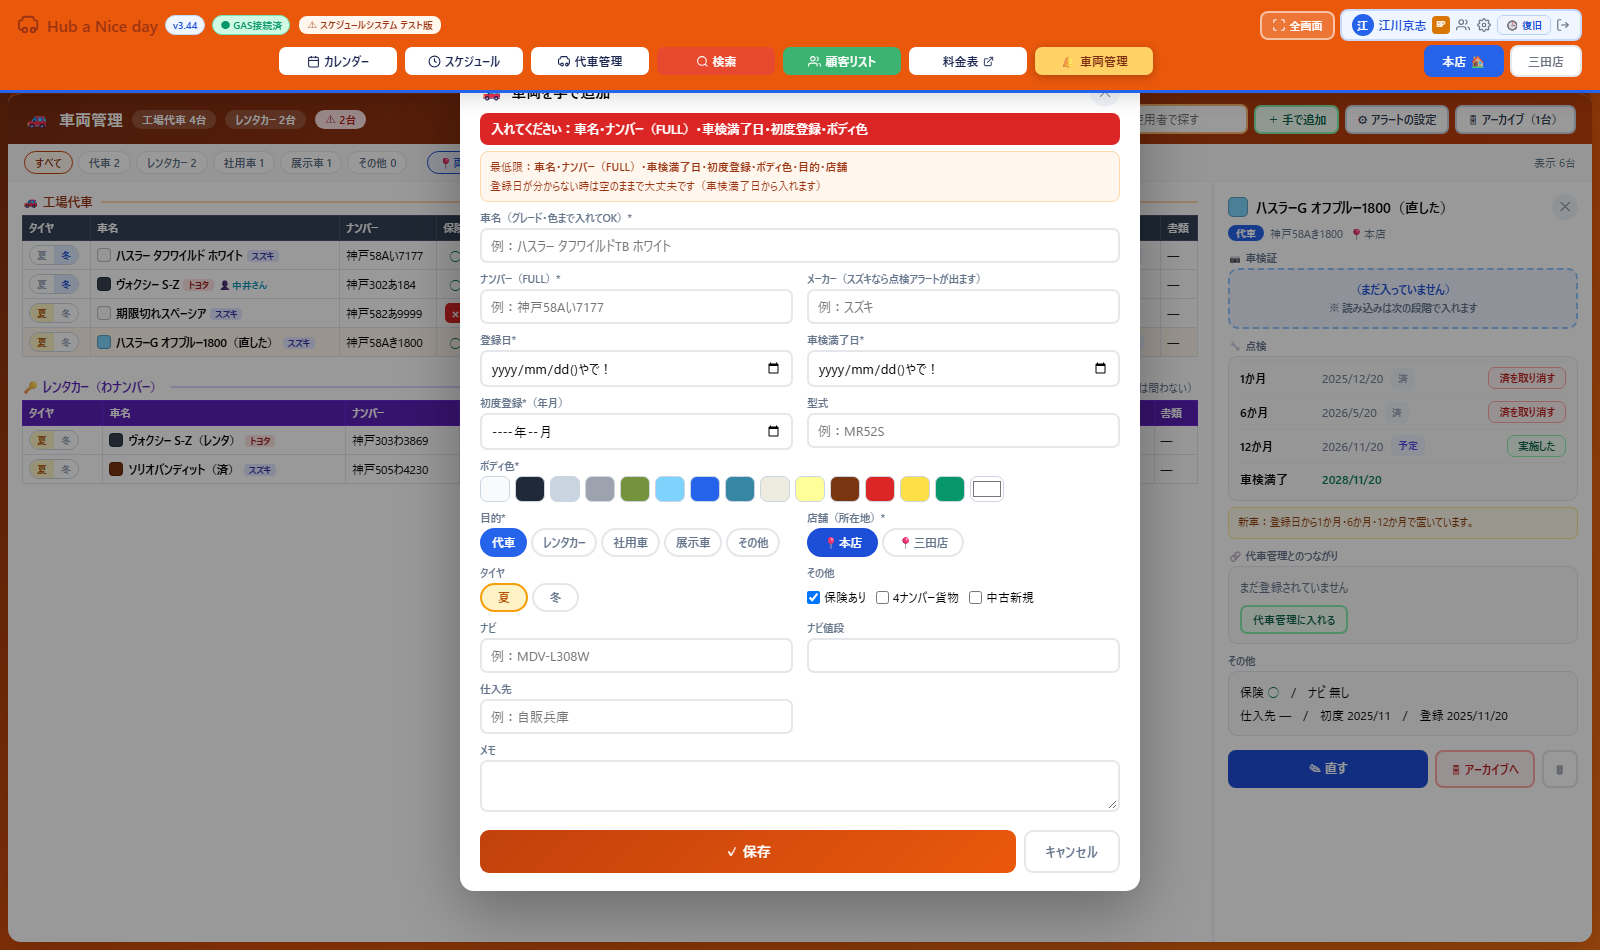
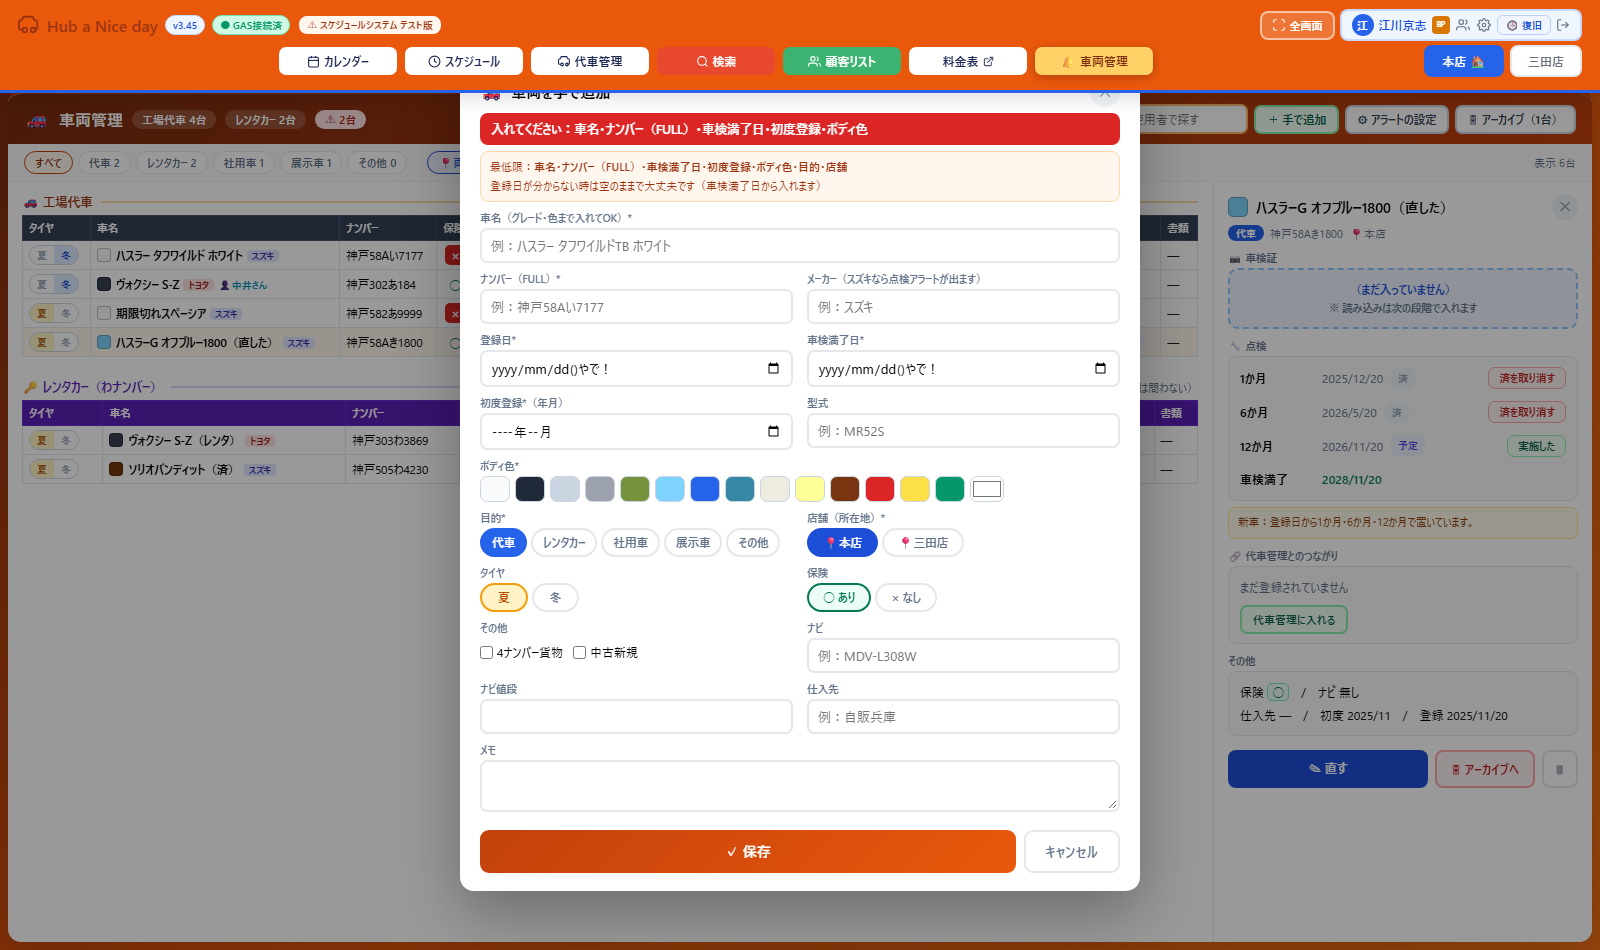
v3.46 ムーヴは3秒で止める／保険の○×を編集できるように／工場代車の12か月点検を済に
- 点検バッジの動きは最初の3秒だけ（0.75秒×4回）。ずっと動くとストレスに
  なるため無限ループをやめた。速さは黄・オレンジ・赤で同じに揃えた。
- 保険の○×を編集できるようにした。編集画面に「○ あり／× なし」のボタン、
  一覧の保険欄と詳細パネルは押すだけで切り替わる。
- テスト版のデータ：工場代車120台の12か月点検をすべて「済」にした
  （控え：Hub重要書類/vehicles-v2-before-m12done.json）。取り込み
  スクリプトも同じ扱いに合わせた。
- 検査 vehicle_v2_test.js（43件）。

diff --git a/index_dev.html b/index_dev.html
@@ -22,7 +22,7 @@
     // 開きっぱなしのタブが旧コードのまま動き続けるのを防ぐ。画面復帰時と定期に自分自身を
     // no-store+クエリ付きで取得し、__APP_BUILD が変わっていれば「更新」バナーを表示する。
     // 本番デプロイ時は port_to_main.js が __APP_BUILD を自動更新する（手動更新不要）。
-    window.__APP_BUILD='build-1791181455252';
+    window.__APP_BUILD='build-1791183932873';
     (function(){
       var RUNNING=window.__APP_BUILD, shown=false, checking=false;
       function runningVer(){
@@ -123,7 +123,7 @@
 const { useState, useEffect, useLayoutEffect, useRef, useCallback, memo, useMemo } = React;
 
 // ★ バージョン管理：アップデートのたびにここだけ変更する
-const APP_VERSION = '3.45';
+const APP_VERSION = '3.46';
 // 本人認証を必須にするか。false の間は従来どおり名前を選ぶだけで入れる（移行期間）。
 //   false … 全員が今までどおり使える。端末の登録（＋スタッフを追加）は先にできる。
 //   true  … その端末で本人確認を済ませた人しかログイン画面に出ない。
@@ -8039,9 +8039,19 @@ const VehicleEdit=memo(({v,onSave,onClose})=>{
               ))}
             </div>
           </div>
+          <div><div style={LB}>保険</div>
+            <div style={{display:'flex',gap:4}}>
+              {[[true,'○ あり'],[false,'× なし']].map(([val,lb])=>(
+                <button key={String(val)} onClick={()=>set('insurance',val)}
+                  style={{padding:'5px 14px',borderRadius:20,fontSize:11.5,fontWeight:800,cursor:'pointer',
+                    border:'2px solid '+(f.insurance===val?(val?'#047857':'#dc2626'):'#e5e7eb'),
+                    background:f.insurance===val?(val?'#ecfdf5':'#dc2626'):'white',
+                    color:f.insurance===val?(val?'#047857':'white'):'#64748b'}}>{lb}</button>
+              ))}
+            </div>
+          </div>
           <div><div style={LB}>その他</div>
             <div style={{display:'flex',gap:10,alignItems:'center',fontSize:12,paddingTop:6}}>
-              <label style={{display:'flex',alignItems:'center',gap:4,cursor:'pointer'}}><input type="checkbox" checked={f.insurance} onChange={e=>set('insurance',e.target.checked)}/>保険あり</label>
               <label style={{display:'flex',alignItems:'center',gap:4,cursor:'pointer'}}><input type="checkbox" checked={f.cargo4} onChange={e=>set('cargo4',e.target.checked)}/>4ナンバー貨物</label>
               <label style={{display:'flex',alignItems:'center',gap:4,cursor:'pointer'}}><input type="checkbox" checked={f.usedNew} onChange={e=>set('usedNew',e.target.checked)}/>中古新規</label>
             </div>
@@ -8147,7 +8157,9 @@ const VehicleDetail=memo(({v,cfg,onChange,onClose,onDelete,linked,onLink,onUnlin
 
       <div style={LB}>その他</div>
       <div style={BOX}>
-        保険 {v.insurance?<span style={{color:'#047857',fontWeight:800}}>○</span>:<span style={{display:'inline-flex',alignItems:'center',justifyContent:'center',width:20,height:18,background:'#dc2626',color:'white',fontWeight:900,borderRadius:5}}>×</span>}
+        保険 <span onClick={()=>onChange({insurance:!v.insurance})} title="押すと ○⇄× が入れ替わります"
+          style={{cursor:'pointer',display:'inline-flex',alignItems:'center',justifyContent:'center',minWidth:20,height:18,padding:'0 4px',borderRadius:5,fontWeight:900,
+            background:v.insurance?'#ecfdf5':'#dc2626',color:v.insurance?'#047857':'white',border:'1.5px solid '+(v.insurance?'#6ee7b7':'#dc2626')}}>{v.insurance?'○':'×'}</span>
         　/　ナビ {v.nav||'無し'}{v.navYen?'（'+v.navYen+'）':''}<br/>
         仕入先 {v.supplier||'—'}　/　初度 {vehFmt(v.firstReg)}　/　登録 {vehFmt(v.regDate)}<br/>
         {v.model&&<>型式 {v.model}　</>}{v.cargo4?'4ナンバー貨物':''}
@@ -8248,10 +8260,12 @@ const VehicleView2=memo(({rows,setRows,loanerH,loanerS,rentalList,onSaveLoanerH,
   const TH={background:'#334155',color:'white',fontSize:10.5,fontWeight:700,padding:'5px 6px',textAlign:'left',whiteSpace:'nowrap',border:'1px solid #475569'};
   const THR={...TH,background:'#5b21b6',borderColor:'#6d28d9'};
   const TD2={border:'1px solid #e5e7eb',padding:'4px 6px',whiteSpace:'nowrap',verticalAlign:'middle',fontSize:11.5};
-  // ★黄 → オレンジ → 赤。どれも揺れる（赤がいちばん速い）。日数は出さない
-  const insStyle=(st)=>st==='red'?{background:'#dc2626',color:'white',animation:'vehMove .55s ease-in-out infinite'}
-    :st==='orange'?{background:'#f97316',color:'white',animation:'vehMove .8s ease-in-out infinite'}
-    :st==='yellow'?{background:'#fde047',color:'#854d0e',animation:'vehMove .9s ease-in-out infinite'}
+  // ★黄 → オレンジ → 赤。色で強さを出す。**動きは最初の3秒だけ**で止める（ずっと動くと目が疲れるため・2026-10-05 ユーザー指示）
+  //   速さは3色とも同じ（0.75秒 × 4回 = 3秒）
+  const VEH_MOVE='vehMove .75s ease-in-out 4';
+  const insStyle=(st)=>st==='red'?{background:'#dc2626',color:'white',animation:VEH_MOVE}
+    :st==='orange'?{background:'#f97316',color:'white',animation:VEH_MOVE}
+    :st==='yellow'?{background:'#fde047',color:'#854d0e',animation:VEH_MOVE}
     :st==='done'?{background:'#f1f5f9',color:'#94a3b8'}:{background:'#eef2ff',color:'#4f46e5'};
   const InsCell=({v,kind})=>{
     if(!vehAlertOn(v,kind))return <span style={{color:'#cbd5e1'}}>—</span>;
@@ -8280,9 +8294,10 @@ const VehicleView2=memo(({rows,setRows,loanerH,loanerS,rentalList,onSaveLoanerH,
           {v.user&&<span style={{marginLeft:4,fontSize:10,color:'#0891b2',fontWeight:700}}>👤{v.user}</span>}
         </td>
         <td style={TD2}>{v.num||'—'}</td>
-        <td style={{...TD2,textAlign:'center'}}>{v.insurance
-          ?<span style={{display:'inline-flex',alignItems:'center',justifyContent:'center',width:22,height:20,color:'#047857',fontWeight:900,fontSize:13}}>○</span>
-          :<span style={{display:'inline-flex',alignItems:'center',justifyContent:'center',width:22,height:20,background:'#dc2626',color:'white',fontWeight:900,fontSize:13,borderRadius:5}}>×</span>}</td>
+        <td style={{...TD2,textAlign:'center'}} onClick={e=>{e.stopPropagation();upd(v.id,{insurance:!v.insurance});}} title="押すと ○⇄× が入れ替わります">
+          {v.insurance
+          ?<span style={{display:'inline-flex',alignItems:'center',justifyContent:'center',width:22,height:20,color:'#047857',fontWeight:900,fontSize:13,cursor:'pointer'}}>○</span>
+          :<span style={{display:'inline-flex',alignItems:'center',justifyContent:'center',width:22,height:20,background:'#dc2626',color:'white',fontWeight:900,fontSize:13,borderRadius:5,cursor:'pointer'}}>×</span>}</td>
         <td style={TD2}><span style={{display:'inline-block',fontSize:10,fontWeight:800,borderRadius:20,padding:'1px 7px',color:'white',background:p.color}}>{p.label}</span></td>
         <td style={{...TD2,maxWidth:150,overflow:'hidden',textOverflow:'ellipsis'}}>{v.nav||<span style={{color:'#b91c1c',fontWeight:800,background:'#fee2e2',borderRadius:4,padding:'0 5px'}}>無し</span>}</td>
         {!rental&&<td style={TD2}>{v.navYen||'—'}</td>}
@@ -8306,7 +8321,7 @@ const VehicleView2=memo(({rows,setRows,loanerH,loanerS,rentalList,onSaveLoanerH,
 
   return(
     <div style={{background:'white',borderRadius:13,boxShadow:'0 10px 40px rgba(0,0,0,.18)',borderTop:'4px solid #c2410c',display:'flex',flexDirection:'column',position:'fixed',top:'var(--header-h,90px)',left:8,right:8,bottom:8,overflow:'hidden',zIndex:10}}>
-      <style>{'@keyframes vehMove{0%,100%{transform:translateX(0)}25%{transform:translateX(-2.5px)}75%{transform:translateX(2.5px)}}@keyframes vehMoveR{0%,100%{transform:scale(1);box-shadow:0 0 0 0 rgba(220,38,38,.55)}50%{transform:scale(1.06);box-shadow:0 0 0 6px rgba(220,38,38,0)}}'}</style>
+      <style>{'@keyframes vehMove{0%,100%{transform:translateX(0)}25%{transform:translateX(-3px)}75%{transform:translateX(3px)}}'}</style>
       {/* ヘッダー */}
       <div style={{padding:'10px 16px',background:'linear-gradient(135deg,#7c2d12,#c2410c)',display:'flex',alignItems:'center',gap:9,flexWrap:'wrap',flexShrink:0}}>
         <span style={{fontSize:19}}>🚗</span>

diff --git a/vehicle_v2_test.js b/vehicle_v2_test.js
@@ -214,6 +214,18 @@ const minus = n => plus(-n);
   const after = await page.evaluate(k => (JSON.parse(JSON.stringify(window.__fakeFb.get(k)||[]))||[]).find(x=>x&&x.id==='v7'), STOR + 'vehicles-v2');
   t('登録日が満了日から入る', !!after && after.regDate === '2025-11-20', after && after.regDate);
 
+  head('⑪ 動きと保険（2026-10-05 ユーザー指示）');
+  const anim = await page.evaluate(() => [...document.querySelectorAll('span')].filter(e=>/点検$/.test(e.innerText.trim()))
+    .map(e=>{const st=getComputedStyle(e);return {name:st.animationName,dur:st.animationDuration,cnt:st.animationIterationCount};}));
+  t('★動きは止まる（ずっと動かない）', anim.length>0 && anim.every(a=>a.cnt!=='infinite'), anim.slice(0,3));
+  t('★3秒くらいで止まる', anim.length>0 && anim.every(a=>Math.abs(parseFloat(a.dur)*parseFloat(a.cnt)-3)<=0.6), anim.slice(0,3));
+  t('★速さは色によらず同じ', new Set(anim.map(a=>a.dur+'/'+a.cnt)).size===1, anim.slice(0,3));
+  const insBefore = await page.evaluate(k => (JSON.parse(JSON.stringify(window.__fakeFb.get(k)||[]))||[]).find(x=>x&&x.id==='v1').insurance, STOR+'vehicles-v2');
+  await page.evaluate(() => { const r=[...document.querySelectorAll('tr')].find(x=>x.innerText.includes('ハスラー タフワイルド ホワイト')); if(r)r.querySelectorAll('td')[3].click(); });
+  await page.waitForTimeout(1200);
+  const insAfter = await page.evaluate(k => (JSON.parse(JSON.stringify(window.__fakeFb.get(k)||[]))||[]).find(x=>x&&x.id==='v1').insurance, STOR+'vehicles-v2');
+  t('★一覧で保険の○×を切り替えられる', insBefore!==insAfter, {before:insBefore,after:insAfter});
+
   t('JSエラーなし', errs.length === 0, errs.slice(0, 3));
 
   await page.screenshot({ path: path.join(DIR, 'smoke-vehicle-v2.png') });

diff --git a/mobile.html b/mobile.html
@@ -17,7 +17,7 @@
   // 画面復帰時と定期に自分自身をno-storeで取得し、__APP_BUILDが変わっていれば更新バナーを表示する。
   // タップ時は cache:'reload' で新HTMLをHTTPキャッシュへ焼き直してから reload するので、確実に新版になる
   // （アプリを消したりURLを打ち直す必要はない）。本番デプロイ時は port_to_main.js が __APP_BUILD を自動更新する。
-  window.__APP_BUILD='build-1791181455252';
+  window.__APP_BUILD='build-1791183932873';
   (function(){
     var RUNNING=window.__APP_BUILD, shown=false, checking=false;
     function runningVer(){
@@ -92,7 +92,7 @@ input,select,textarea{font-family:inherit;font-size:16px !important;}
 <script id="app-jsx" type="text/plain">
 const {useState,useEffect,useCallback,useMemo,useRef,memo}=React;
 // ★ バージョン管理：システム全体で1つ。変更のたびにindex_dev.htmlのAPP_VERSIONと同値で0.01上げる
-const MOBILE_VERSION='3.45';
+const MOBILE_VERSION='3.46';
 // ★画面の色（環境の見分け）：テスト版＝オレンジ／メイン＝青。PC（index）と同じ決まり。
 //   この4つだけを port_to_main.js が本番用に書き換えるので、色は必ずここを使うこと。
 const UI_BG='#FF9500';                                               // ログイン・登録・引き継ぎ画面の背景（べた塗り）

diff --git a/customers.html b/customers.html
@@ -20,7 +20,7 @@
   // 開きっぱなしのタブが旧コードのまま動き続けるのを防ぐ。画面復帰時と定期に自分自身を
   // no-store+クエリ付きで取得し、__APP_BUILD が変わっていれば「更新」バナーを表示する。
   // 本番デプロイ時は port_to_main.js が __APP_BUILD を自動更新する（手動更新不要）。
-  window.__APP_BUILD='build-1791181455252';
+  window.__APP_BUILD='build-1791183932873';
   (function(){
     var RUNNING=window.__APP_BUILD, shown=false, checking=false;
     function runningVer(){
@@ -141,7 +141,7 @@ const hubRenew = async name => {};
 // index側の全画面オーバーレイ（iframe）内で開かれているか。埋め込み時は
 // 「スケジュールに戻る」がページ遷移ではなく親へのpostMessage（オーバーレイ閉鎖）になる。
 const IS_EMBED=(()=>{try{return window.self!==window.top;}catch(e){return true;}})();
-const APP_VERSION='3.45'; // 表示用バージョン。更新ごとに上げる（軽微+0.01／大型は整数を上げる）。index_dev.htmlと揃える
+const APP_VERSION='3.46'; // 表示用バージョン。更新ごとに上げる（軽微+0.01／大型は整数を上げる）。index_dev.htmlと揃える
 const storKey=(base,sid)=>`${STOR}${sid}-${base}`;
 const CHUNK_SIZE=100;
 // ファイル名をGASキーに使える形に変換

diff --git a/fb_import_vehicles.js b/fb_import_vehicles.js
@@ -135,10 +135,11 @@ const is4 = num => /[^\d](4\d{2}|4\d|4)[あ-ん]/.test(String(num || '')) || /\s
       expiryRaw,
       maker: makerOf(name, supplier), model: '', cargo4: is4(num),
       usedNew: false,
-      // ★レンタカーは現在すべて点検済み（日付は分からないので「済」だけ付ける。2026-10-05 ユーザー指示）
+      // ★レンタカーは現在すべて点検済み。工場代車も12か月点検は済（2026-10-05 ユーザー指示）
+      //   12か月の回は画面側（vehM12List）が車検満了日から出すので、ここでは1回ぶんの「済」だけ置く
       inspections: group === 'rental'
         ? { m1: { done: true, doneAt: m1.doneAt || '' }, m6: { done: true, doneAt: m6.doneAt || '' }, m12: [{ done: true, doneAt: '' }] }
-        : { m1, m6, m12: [] },
+        : { m1, m6, m12: [{ done: true, doneAt: '' }] },
       docs: [],
       note: [extra && !/三田|八多|北神|ハ多/.test(extra) ? extra : '', m1.note, m6.note].filter(Boolean).join(' / '),
       archived, archivedAt: archived ? '2026-10-05' : '',

diff --git a/CLAUDE.md b/CLAUDE.md
@@ -93,6 +93,9 @@ This file provides guidance to Claude Code (claude.ai/code) when working with co
   ・**実施日は出さない**（「済」だけ）。**車検満了の「あと○日」も出さない**（日付と色だけ）。
   ・編集画面は**登録日が空でも保存できる**（車検満了日から入れる）。足りない項目は**上に赤帯**で出す。
   ・代車管理は**リンクを外す**こともできる（`unlinkNow`。入っている予約は消さない）。
+  ・**動きは最初の3秒だけ**（`vehMove .75s ease-in-out 4`）。**ずっと動かすとストレスになる**ので無限ループにしないこと（2026-10-05 ユーザー指示）。速さは**3色とも同じ**。
+  ・**保険の○×は一覧でも詳細でも押して切り替えられる**（編集画面にも ○あり／×なし のボタン）。
+  ・**工場代車の12か月点検は全台「済」**にしてある（2026-10-05 ユーザー依頼。取り込みスクリプトも同じにしてある）。レンタカーは1か月・6か月・12か月とも済。
   期日：新車は登録日から1/6/12か月、**中古新規は車検満了日から逆算**（`vehInspDue`）。
   何日前から知らせるかは**画面の「⚙ アラートの設定」で変えられる**（既定：黄＝90日前／赤＝期日を過ぎたら。`__cfg__` の行に保存）。
 - 手で追加する時の**最低限**：車名・ナンバー(FULL)・登録日・車検満了日・初度登録・ボディ色・目的・店舗（足りないと保存できない）。
